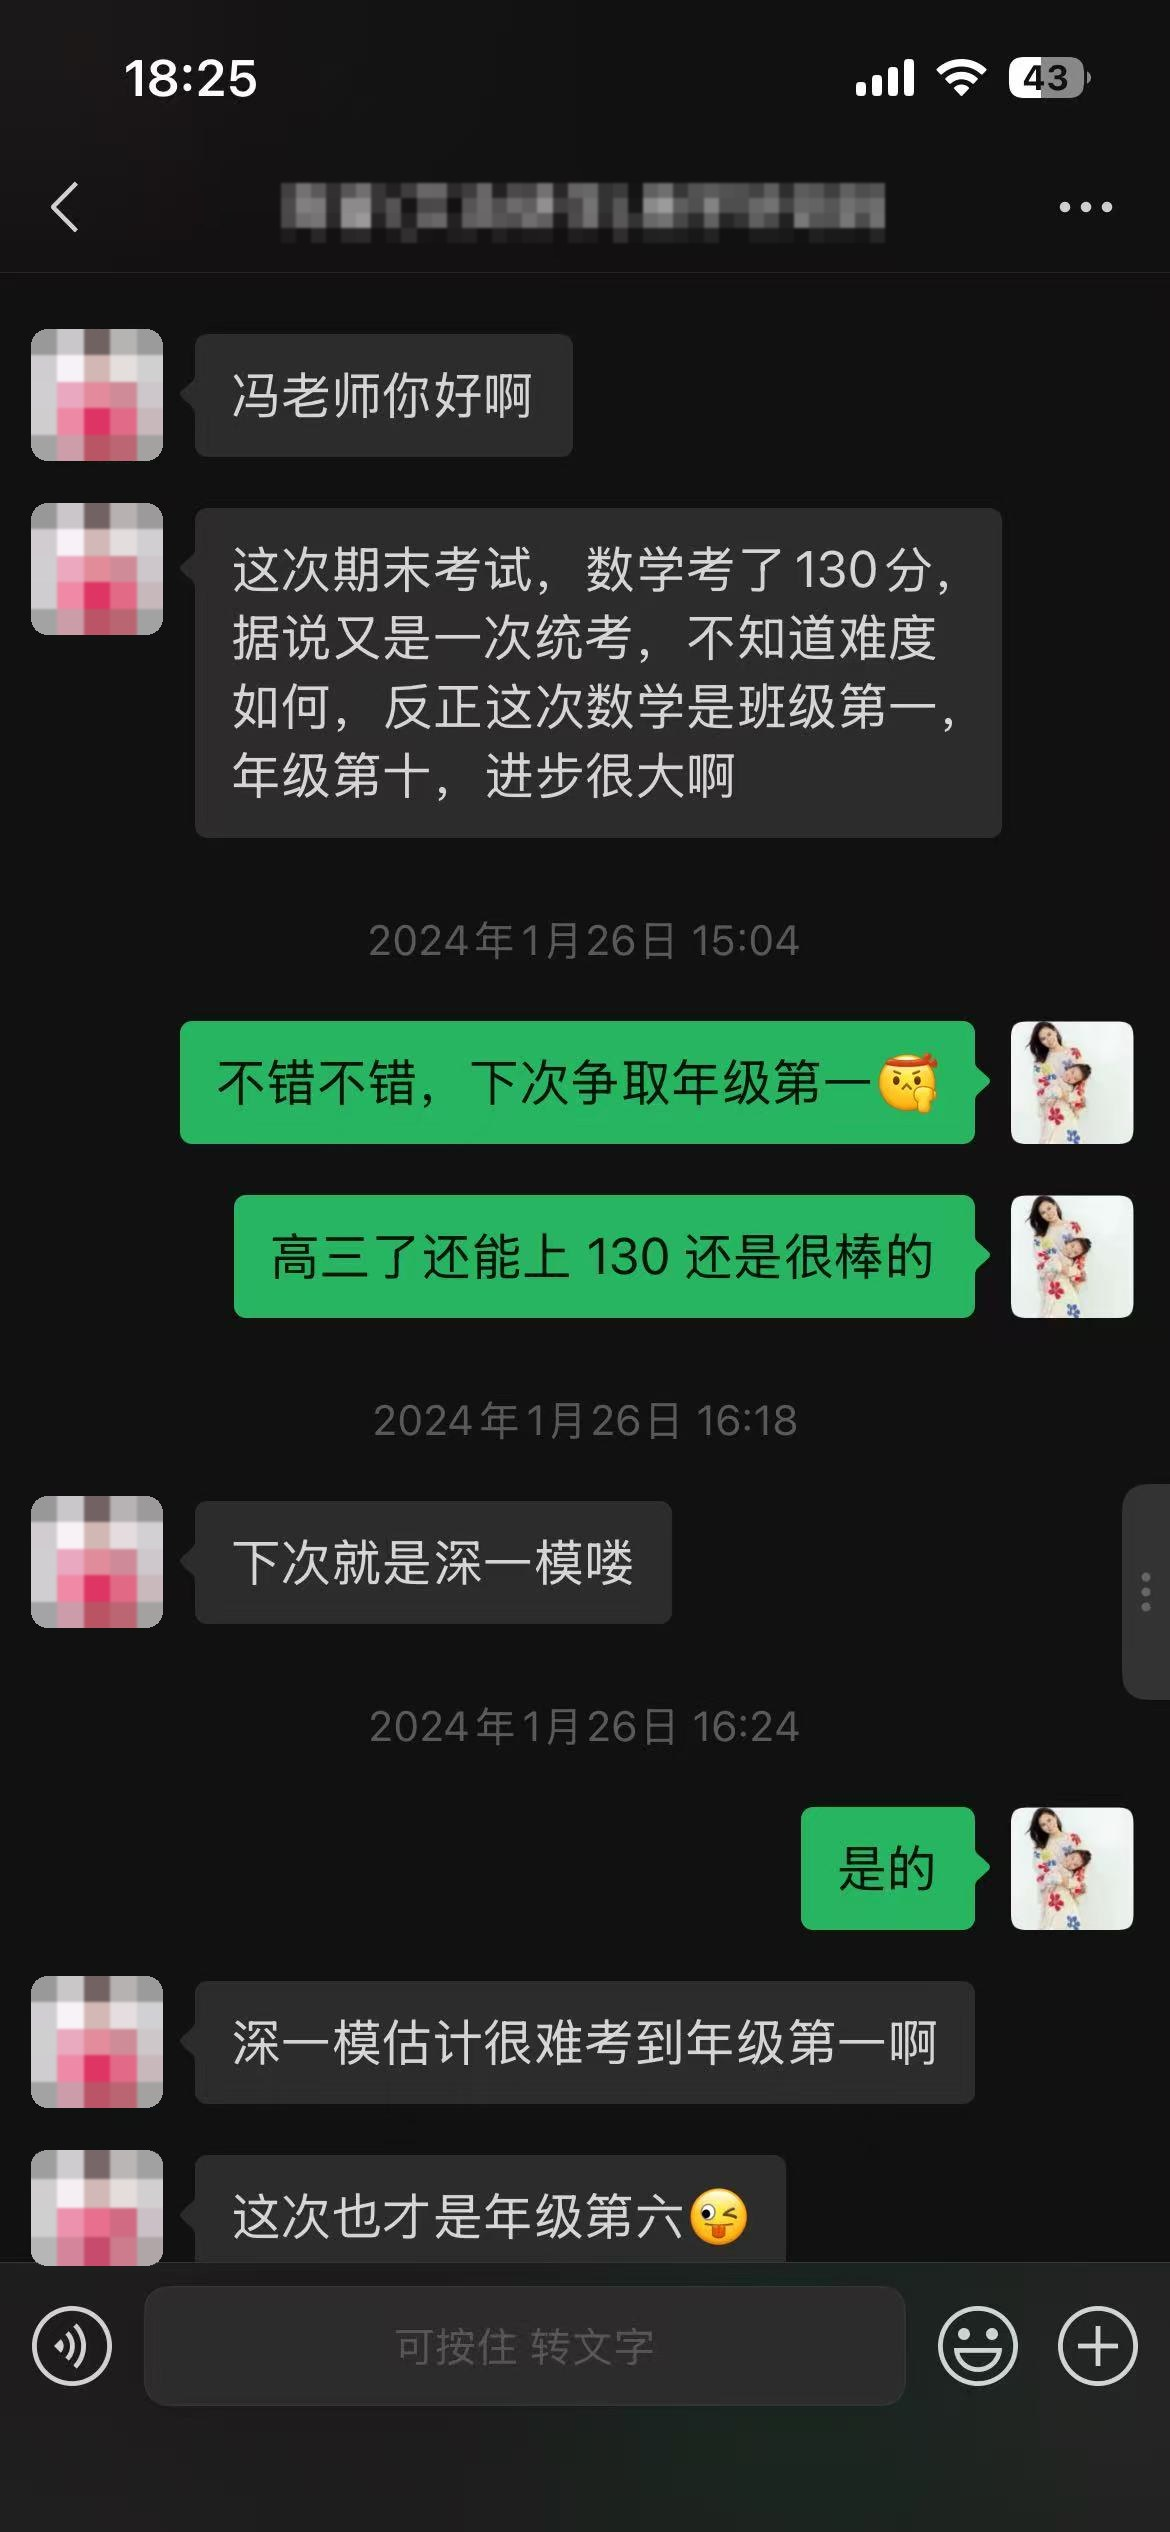
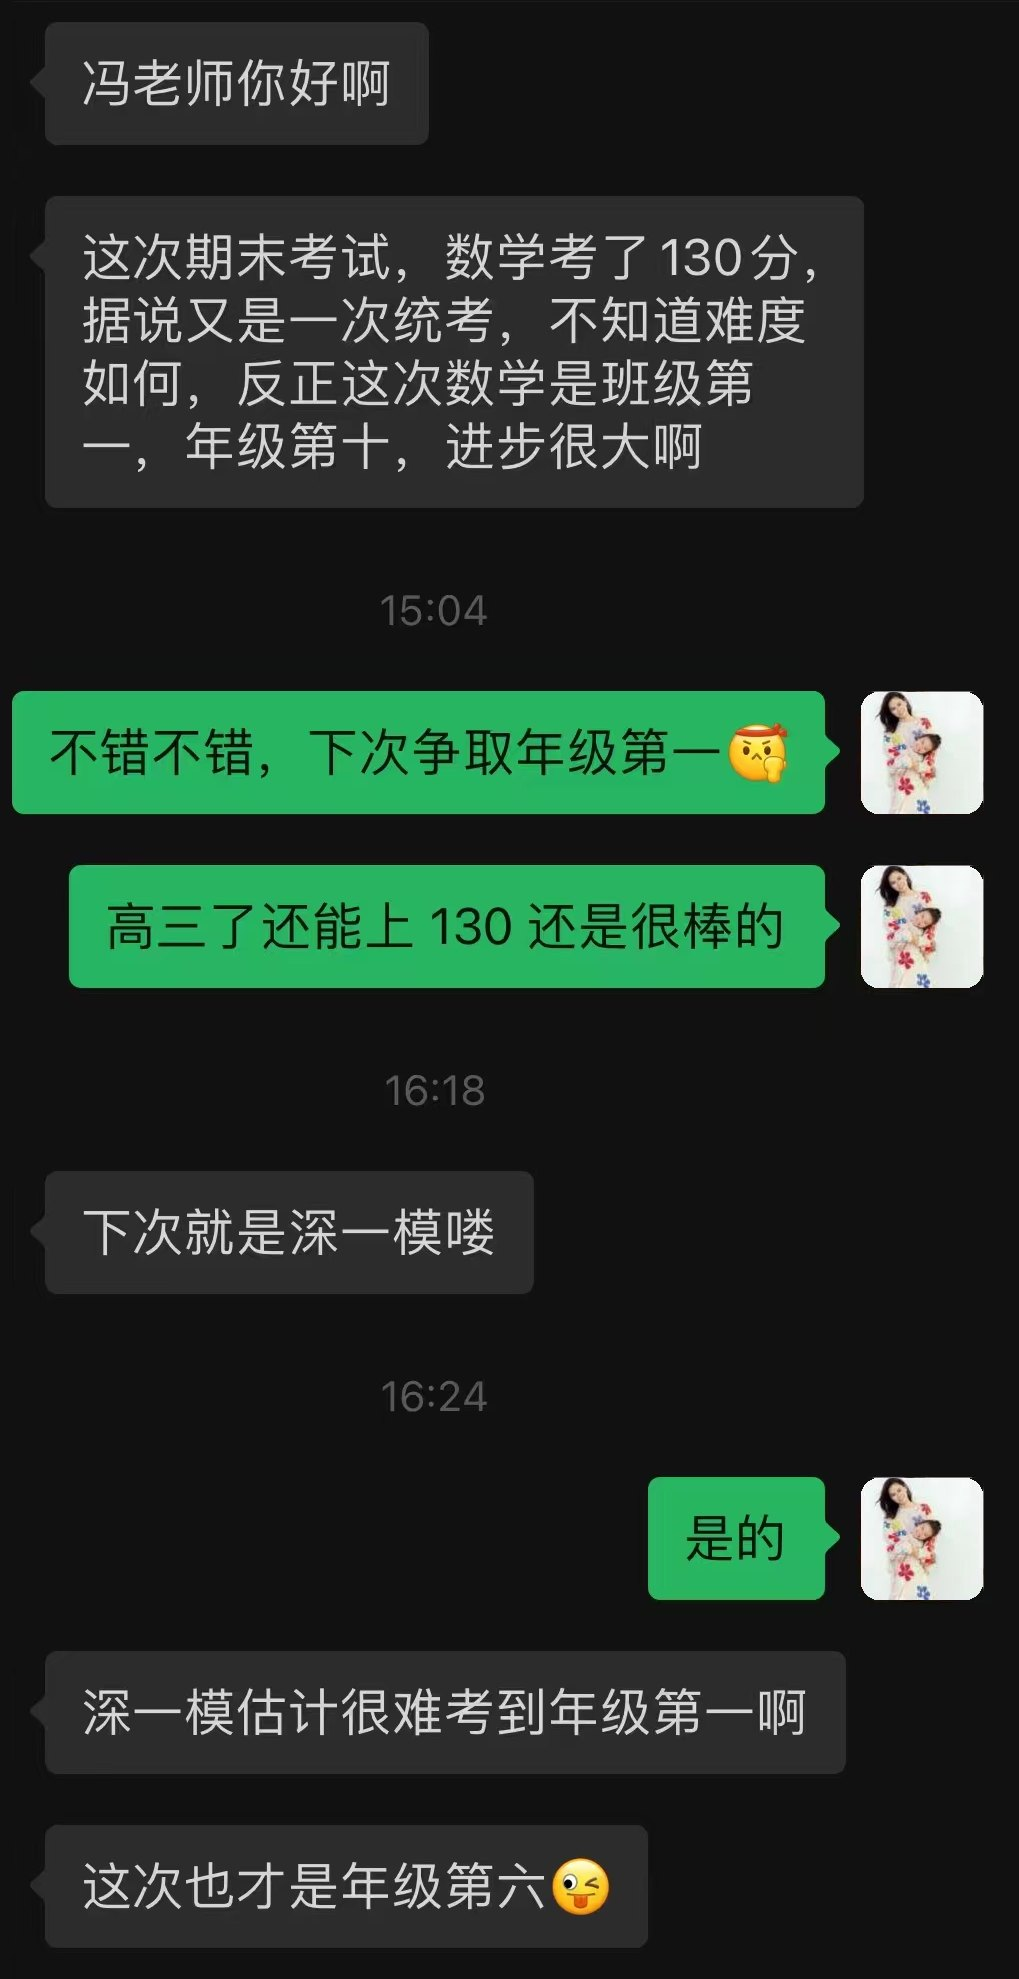
deploy: fengyan-edu-v2 副本全量站点

diff --git a/index.html b/index.html
@@ -1114,6 +1114,33 @@
       content: "中考成绩";
     }
 
+    .feedback-image:nth-child(12)::after {
+      content: "数学 127";
+    }
+
+    .feedback-image:nth-child(13)::after {
+      content: "数学 148";
+    }
+
+    .feedback-image:nth-child(14)::after {
+      content: "年排 50";
+    }
+
+    .feedback-image:nth-child(15)::after {
+      content: "单科 142";
+    }
+
+    /* 竖长截图按内容位置取景，避免核心信息（短信抬头 / 成绩表格）被 cover 裁掉 */
+    .feedback-image:nth-child(10) img,
+    .feedback-image:nth-child(11) img,
+    .feedback-image:nth-child(14) img {
+      object-position: center top;
+    }
+
+    .feedback-image:nth-child(15) img {
+      object-position: left center;
+    }
+
     .feedback-image {
       cursor: zoom-in;
     }
@@ -2715,7 +2742,7 @@
           <img src="assets/feedback6.jpg" alt="家长微信反馈截图" width="756" height="1188" loading="lazy" decoding="async" />
         </div>
         <div class="feedback-image" tabindex="0" role="button" aria-label="点击查看家长反馈大图">
-          <img src="assets/feedback7.jpg" alt="家长微信反馈截图" width="1170" height="2532" loading="lazy" decoding="async" />
+          <img src="assets/feedback7.jpg" alt="家长微信反馈截图" width="1019" height="1979" loading="lazy" decoding="async" />
         </div>
         <div class="feedback-image" tabindex="0" role="button" aria-label="点击查看学生反馈大图">
           <img src="assets/feedback8.jpg" alt="学生微信反馈截图" width="1080" height="2039" loading="lazy" decoding="async" />
@@ -2728,6 +2755,18 @@
         </div>
         <div class="feedback-image" tabindex="0" role="button" aria-label="点击查看中考成绩反馈大图">
           <img src="assets/feedback11.jpg" alt="中考成绩反馈截图" width="934" height="1837" loading="lazy" decoding="async" />
+        </div>
+        <div class="feedback-image" tabindex="0" role="button" aria-label="点击查看学生反馈大图">
+          <img src="assets/feedback12.jpg" alt="学生微信反馈截图" width="981" height="1618" loading="lazy" decoding="async" />
+        </div>
+        <div class="feedback-image" tabindex="0" role="button" aria-label="点击查看家长反馈大图">
+          <img src="assets/feedback13.jpg" alt="家长微信反馈截图" width="612" height="1027" loading="lazy" decoding="async" />
+        </div>
+        <div class="feedback-image" tabindex="0" role="button" aria-label="点击查看家长反馈大图">
+          <img src="assets/feedback14.jpg" alt="家长微信反馈截图" width="993" height="2024" loading="lazy" decoding="async" />
+        </div>
+        <div class="feedback-image" tabindex="0" role="button" aria-label="点击查看学生成绩反馈大图">
+          <img src="assets/feedback15.jpg" alt="学生成绩反馈截图" width="735" height="794" loading="lazy" decoding="async" />
         </div>
       </div>
       <div class="testimonial-content">
